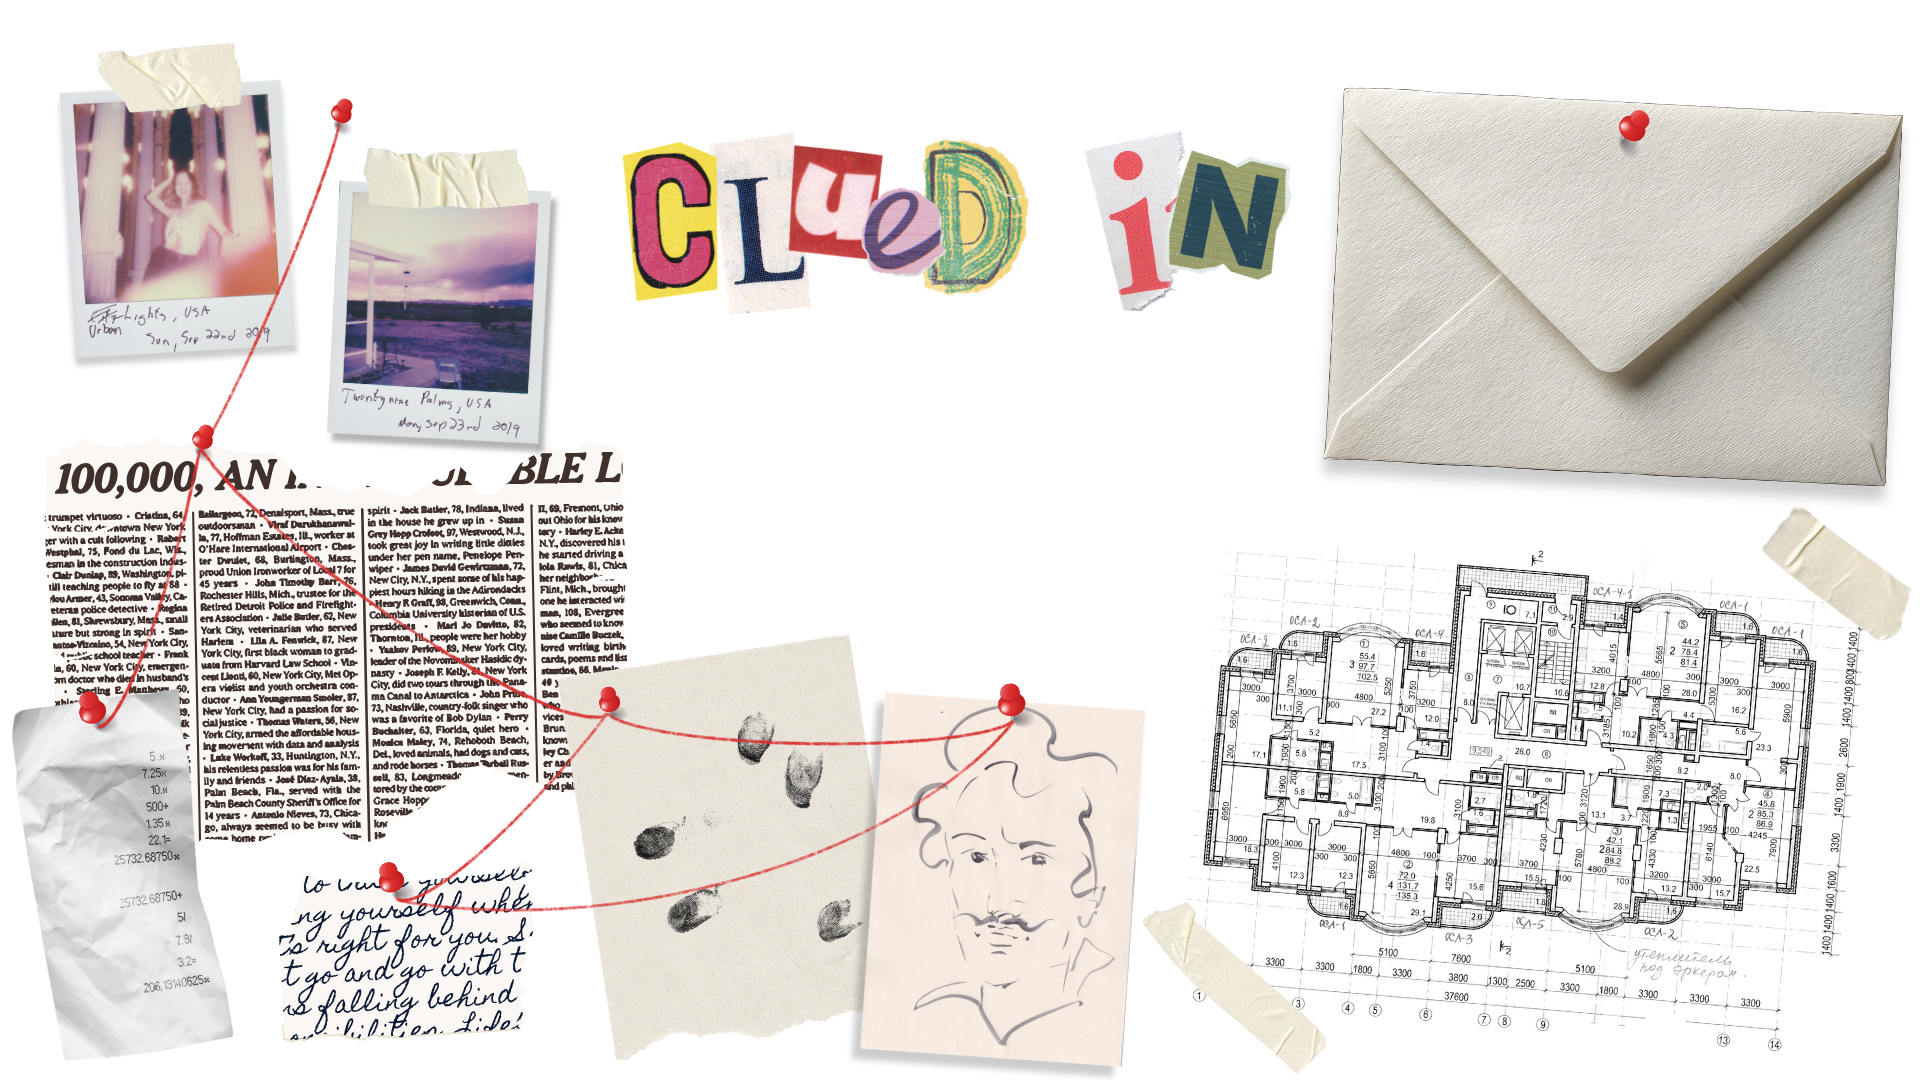
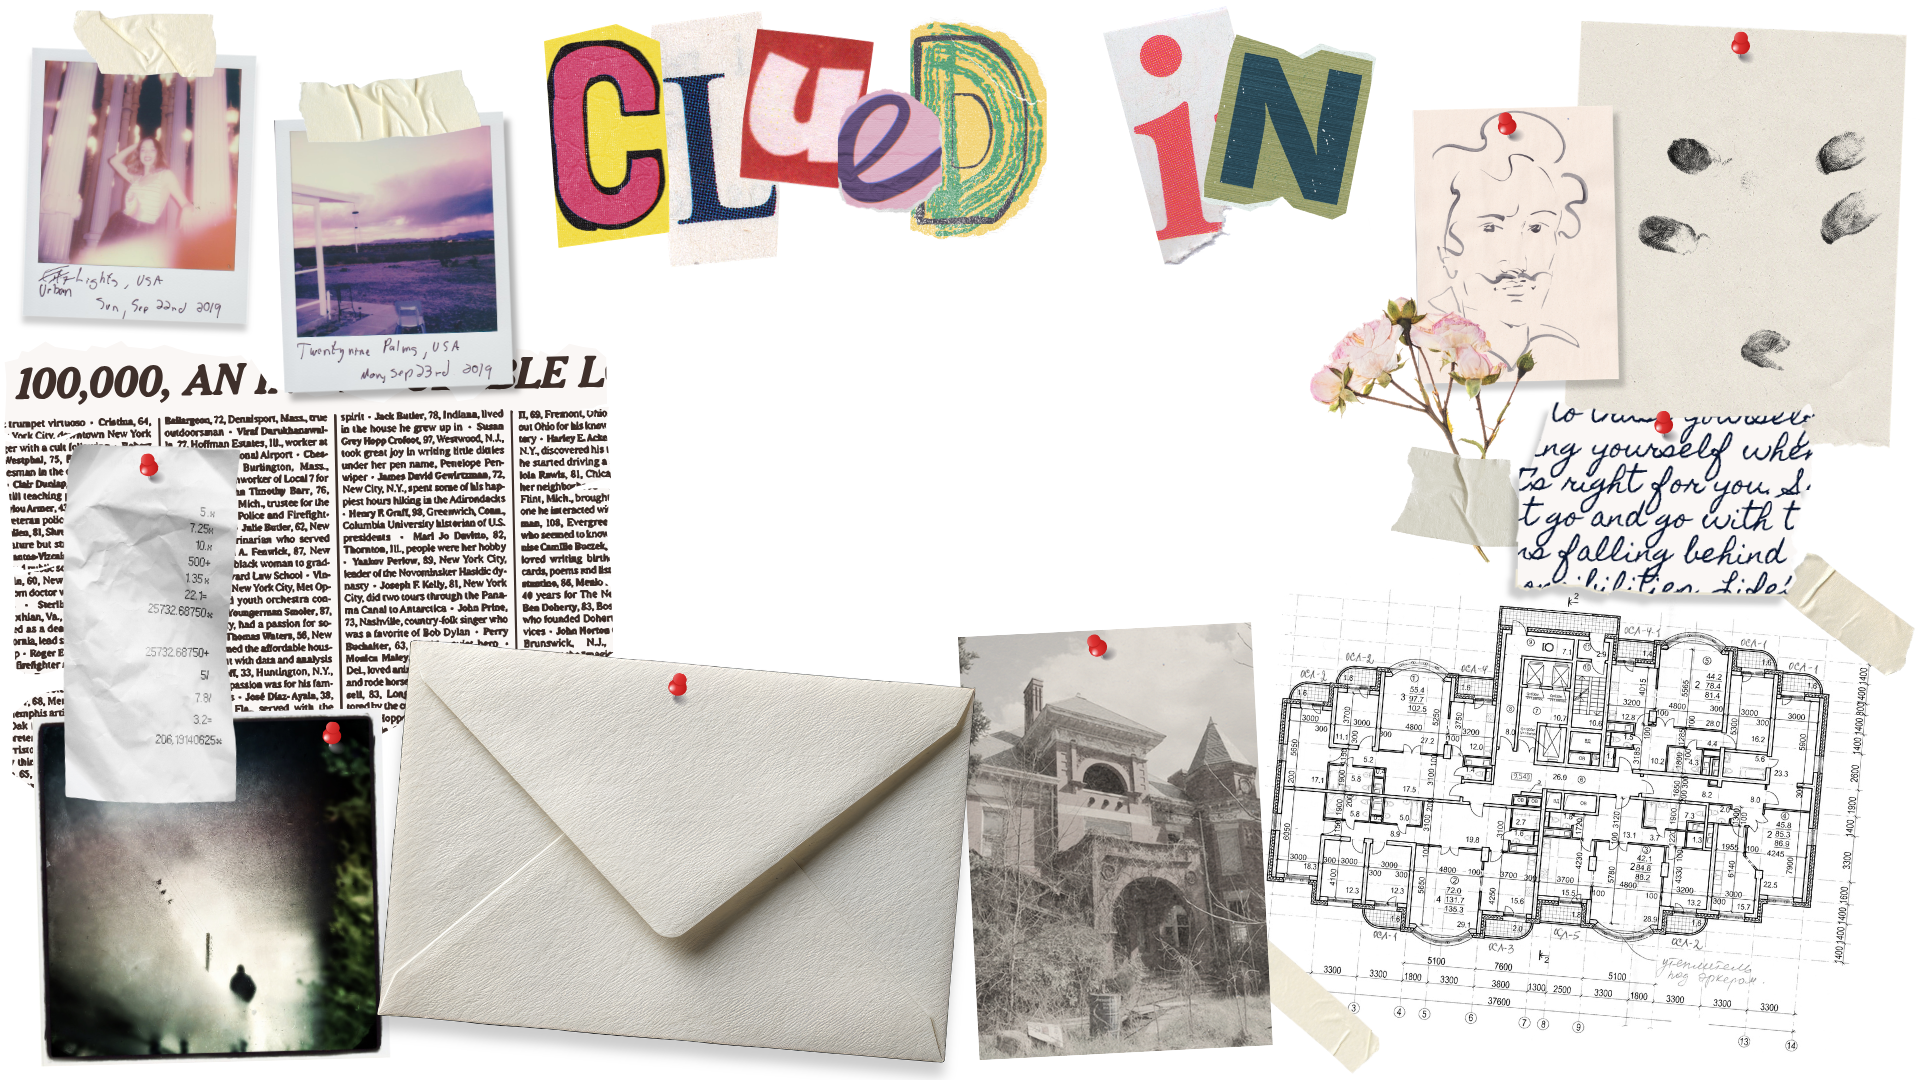
add start and end screens (+ a couple other changes)

diff --git a/src/index.css b/src/index.css
@@ -17,12 +17,15 @@
   --color-1: #c32221;
   --color-2: #5a9947;
 
+  --color-dark: #161616;
+
   --font-main: "Biro";
   --font-code: "Fira";
   --font-letter: "Phont";
 
   --font-sm: 18px;
-  --font-md: 24px;
+  --font-md: 20px;
+  --font-lg: 24px;
 }
 
 body {
@@ -30,7 +33,7 @@ body {
   overflow: hidden;
 
   font-family: var(--font-main);
-  font-size: var(--font-md);
+  font-size: var(--font-lg);
   line-height: 1.8;
 }
 
@@ -42,6 +45,10 @@ a {
     text-decoration: none;
     color: inherit;
   }
+}
+
+.p {
+  padding-bottom: 1rem;
 }
 
 .app {
@@ -69,7 +76,45 @@ a {
     z-index: 0;
   }
 
-  .nav-notes {
+  .board-notes {
+    display: flex;
+    flex-direction: column;
+    justify-content: center;
+    align-items: center;
+    gap: 1.5rem;
+  }
+
+  .instructions {
+    width: 23rem;
+
+    display: flex;
+    justify-content: center;
+    padding: 1rem 2rem;
+
+    background-image: url("./assets/images/paper/response.png");
+    background-size: 100% 100%;
+
+    font-size: var(--font-md);
+  }
+
+  .allSolved {
+    z-index: 1;
+
+    color: var(--color-1);
+
+    transition: all 0.5s ease;
+
+    &:hover {
+      cursor: pointer;
+
+      transform: scale(1.02);
+    }
+  }
+
+  .nav {
+    display: flex;
+    gap: 1rem;
+
     z-index: 1;
     white-space: nowrap;
 
@@ -78,9 +123,16 @@ a {
       transition: transform 0.25s ease;
 
       &:hover {
-        cursor: pointer;
         transform: rotate(5deg);
       }
+    }
+
+    .unsolved:hover {
+      cursor: pointer;
+    }
+
+    .solved:hover {
+      cursor: default;
     }
   }
 }
@@ -168,7 +220,7 @@ a {
   display: flex;
   flex-direction: column;
   align-items: center;
-  gap: 48px;
+  gap: 1rem;
 }
 
 .connect-clues {
@@ -289,10 +341,6 @@ a {
     background-repeat: no-repeat;
   }
 
-  .p {
-    padding-bottom: 1rem;
-  }
-
   .clue {
     color: var(--color-1);
   }
@@ -319,4 +367,38 @@ a {
 
 .disabled {
   opacity: 70%;
+}
+
+.news-page {
+  width: 100%;
+  height: 100%;
+  
+  display: flex;
+  flex-direction: column;
+  justify-content: center;
+  align-items: center;
+  gap: 2rem;
+  
+  .newspaper {
+    height: 30rem;
+  }
+
+  .btn {
+    display: flex;
+    justify-content: center;
+    padding: 0.5rem 2rem;
+
+    background-image: url("./assets/images/paper/btn-1.png");
+    background-size: 100% 100%;
+
+    color: var(--color-1);
+
+    transition: all 0.25s ease;
+
+    &:hover {
+      cursor: pointer;
+
+      transform: scale(1.02);
+    }
+  }
 }

diff --git a/src/pages/EvidenceBoard.jsx b/src/pages/EvidenceBoard.jsx
@@ -1,0 +1,57 @@
+import { useEffect, useState } from "react"
+import { NavLink } from "react-router-dom"
+import Evidence from "../assets/images/bg/evidence.png"
+import ConnectNote from "../assets/images/notes/connect.png"
+import ConnectNoteSolved from "../assets/images/notes/connect-solved.png"
+import BlueprintNote from "../assets/images/notes/blueprint.png"
+import BlueprintNoteSolved from "../assets/images/notes/blueprint-solved.png"
+import LetterNote from "../assets/images/notes/letter.png"
+import LetterNoteSolved from "../assets/images/notes/letter-solved.png"
+
+// Click each question to examine the clues.
+
+export function EvidenceBoard({ solved }) {
+  const [allSolved, setAllSolved] = useState(false);
+  const [instructions, setInstructions] = useState("Click each question to examine the clues.");
+
+  useEffect(() => {
+    if (solved.connect && solved.blueprint && solved.letter) {
+      setInstructions("All questions answered. Click to close the case.")
+      setAllSolved(true);
+    }
+  }, [solved])
+  
+  return (
+    <div className="evidence-board">
+      <img src={Evidence} className="board" />
+
+      <div className="board-notes">
+        <NavLink to="/case-closed" onClick={(e) => !allSolved && e.preventDefault()} className={`instructions ${allSolved && "allSolved"}`}>
+          {instructions}
+        </NavLink>
+        <div className="nav">
+          {solved.connect
+            ? <img src={ConnectNoteSolved} className="note solved" />
+            : <NavLink to="connect">
+                <img src={ConnectNote} className="note unsolved" />
+              </NavLink>
+          }
+
+          {solved.blueprint
+            ? <img src={BlueprintNoteSolved} className="note solved" />
+            : <NavLink to="blueprint">
+                <img src={BlueprintNote} className="note unsolved" />
+              </NavLink>
+          }
+
+          {solved.letter
+            ? <img src={LetterNoteSolved} className="note solved" />
+            : <NavLink to="letter">
+                <img src={LetterNote} className="note unsolved" />
+              </NavLink>
+          }
+        </div>
+      </div>
+    </div>
+  )
+}

diff --git a/src/App.jsx b/src/App.jsx
@@ -2,10 +2,12 @@ import "./index.css"
 import { useState } from "react"
 import { Routes, Route, useLocation } from "react-router-dom";
 import { AnimatePresence, motion } from "motion/react";
-import { Home } from "./pages/Home"
+import { StartPage } from "./pages/StartPage";
+import { EvidenceBoard } from "./pages/EvidenceBoard"
 import { LetterPuzzle } from "./pages/LetterPuzzle";
 import { BlueprintPuzzle } from "./pages/BlueprintPuzzle";
 import { ConnectPuzzle } from "./pages/ConnectPuzzle";
+import { EndPage } from "./pages/EndPage";
 
 function MotionDiv({ children }) {
   return (
@@ -38,10 +40,12 @@ function App() {
     <div className="app">
       <AnimatePresence mode="wait">
         <Routes location={location} key={location.pathname}>
-          <Route path="/" element={ <MotionDiv> <Home solved={solved} /> </MotionDiv> } />
-          <Route path="/connect" element={ <MotionDiv> <ConnectPuzzle onSolved={() => markSolved("connect")} /> </MotionDiv> } />
-          <Route path="/blueprint" element={ <MotionDiv> <BlueprintPuzzle onSolved={() => markSolved("blueprint")} /> </MotionDiv> } />
-          <Route path="/letter" element={ <MotionDiv> <LetterPuzzle onSolved={() => markSolved("letter")} /> </MotionDiv> } />
+          <Route path="/" element={ <MotionDiv> <StartPage /> </MotionDiv> } />
+          <Route path="/evidence-board" element={ <MotionDiv> <EvidenceBoard solved={solved} /> </MotionDiv> } />
+          <Route path="/evidence-board/connect" element={ <MotionDiv> <ConnectPuzzle onSolved={() => markSolved("connect")} /> </MotionDiv> } />
+          <Route path="/evidence-board/blueprint" element={ <MotionDiv> <BlueprintPuzzle onSolved={() => markSolved("blueprint")} /> </MotionDiv> } />
+          <Route path="/evidence-board/letter" element={ <MotionDiv> <LetterPuzzle onSolved={() => markSolved("letter")} /> </MotionDiv> } />
+          <Route path="/case-closed" element={ <MotionDiv> <EndPage /> </MotionDiv> } />
         </Routes>
       </AnimatePresence>
     </div>

diff --git a/src/pages/StartPage.jsx b/src/pages/StartPage.jsx
@@ -1,0 +1,37 @@
+import { motion } from "motion/react"
+import { NavLink } from "react-router-dom"
+import Newspaper from "../assets/images/bg/start-news.png"
+
+export function StartPage() {
+  return (
+    <div className="news-page">
+      <motion.img src={Newspaper} className="newspaper"
+        style={{
+          transformOrigin: "top right"
+        }}
+        initial={{
+          x: 400,
+          y: -500,
+          rotateZ: 35,
+          rotateX: 60,
+          opacity: 0,
+          scale: 0.95,
+        }}
+        animate={{
+          x: 0,
+          y: 0,
+          rotateZ: 0,
+          rotateX: 0,
+          opacity: 1,
+          scale: 1,
+        }}
+        transition={{
+          duration: 2,
+          ease: [0.16, 1, 0.3, 1],
+        }}
+      />
+
+      <NavLink to="/evidence-board" end className="btn"> Solve the Case -&gt; </NavLink>
+    </div>
+  )
+}

diff --git a/src/pages/EndPage.jsx b/src/pages/EndPage.jsx
@@ -1,0 +1,37 @@
+import { motion } from "motion/react"
+import { NavLink } from "react-router-dom"
+import Newspaper from "../assets/images/bg/end-news.png"
+
+export function EndPage() {
+  return (
+    <div className="news-page">
+      <motion.img src={Newspaper} className="newspaper"
+        style={{
+          transformOrigin: "top left"
+        }}
+        initial={{
+          x: -400,
+          y: -500,
+          rotateZ: -35,
+          rotateX: 60,
+          opacity: 0,
+          scale: 0.95,
+        }}
+        animate={{
+          x: 0,
+          y: 0,
+          rotateZ: 0,
+          rotateX: 0,
+          opacity: 1,
+          scale: 1,
+        }}
+        transition={{
+          duration: 2,
+          ease: [0.16, 1, 0.3, 1],
+        }}
+      />
+
+      <NavLink to="/" reloadDocument end className="btn"> Replay Game </NavLink>
+    </div>
+  )
+}

diff --git a/src/pages/ConnectPuzzle.jsx b/src/pages/ConnectPuzzle.jsx
@@ -4,7 +4,6 @@ import { motion } from "motion/react"
 import { containerVariants, lineVariants } from "../components/text-fade-in"
 import ConnectNote from "../assets/images/notes/connect.png"
 import Note from "../assets/images/paper/ui.png"
-import CluePaper from "../assets/images/paper/clue.png"
 
 const categories = [
   {id: 0, category: "Property must be abandoned"},
@@ -177,7 +176,7 @@ export function ConnectPuzzle({ onSolved }) {
                   transition={{ duration: 0.8 }}
                   className="back"
                 >
-                  <NavLink to="/" end> Back to evidence board -&gt; </NavLink>
+                  <NavLink to="/evidence-board" end> Back to evidence board -&gt; </NavLink>
                 </motion.div>
               }
             </motion.div>

diff --git a/src/pages/BlueprintPuzzle.jsx b/src/pages/BlueprintPuzzle.jsx
@@ -63,7 +63,7 @@ export function BlueprintPuzzle({ onSolved }) {
                 ))}
               </motion.div>
 
-              <NavLink to="/" end className="back"> Back to evidence board -&gt; </NavLink>
+              <NavLink to="/evidence-board" end className="back"> Back to evidence board -&gt; </NavLink>
             </motion.div>
         }
       </div>

diff --git a/src/pages/LetterPuzzle.jsx b/src/pages/LetterPuzzle.jsx
@@ -98,7 +98,7 @@ export function LetterPuzzle({ onSolved }) {
                 ))}
               </motion.div>
 
-              <NavLink to="/" end className="back"> Back to evidence board -&gt; </NavLink>
+              <NavLink to="/evidence-board" end className="back"> Back to evidence board -&gt; </NavLink>
             </motion.div>
         }
       </div>

diff --git a/src/components/text-fade-in.jsx b/src/components/text-fade-in.jsx
@@ -2,7 +2,7 @@ export const containerVariants = {
   hidden: {},
   visible: {
     transition: {
-      staggerChildren: 1.8,
+      staggerChildren: 1.6,
     }
   }
 };
